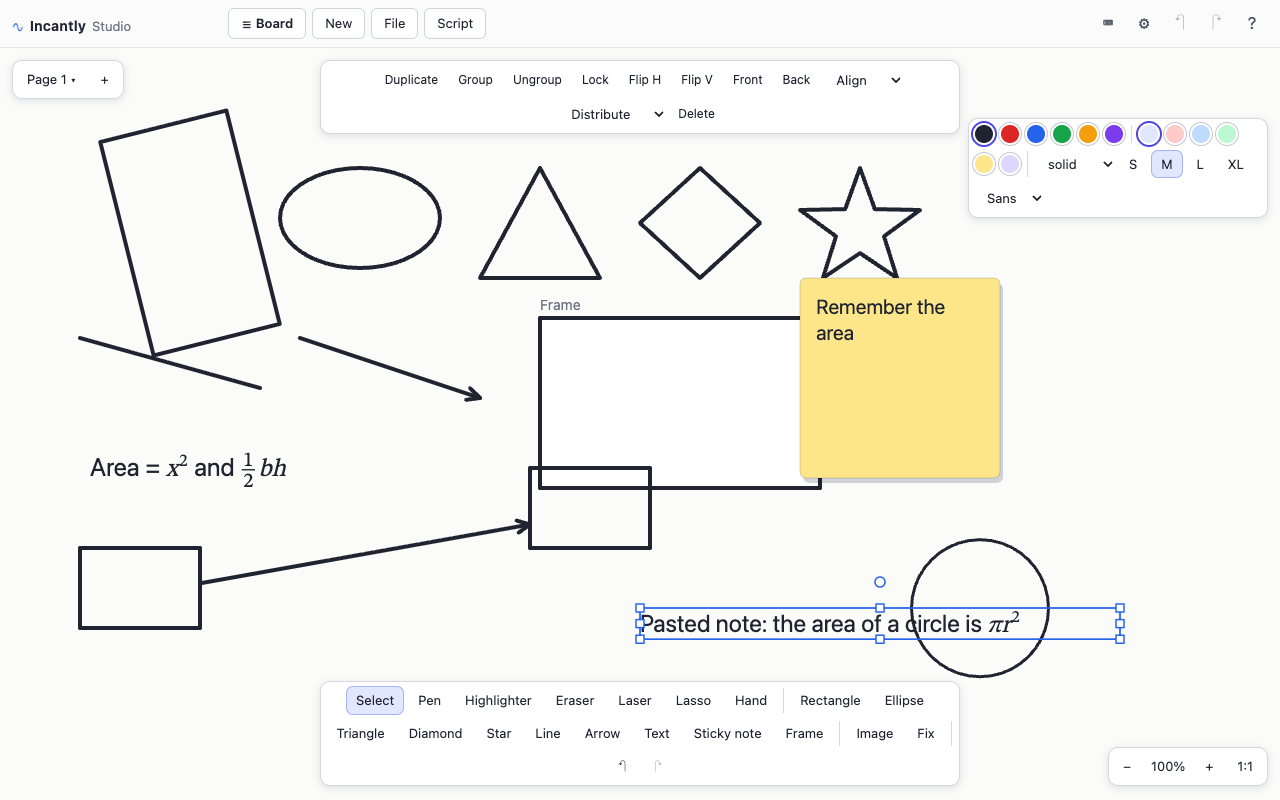
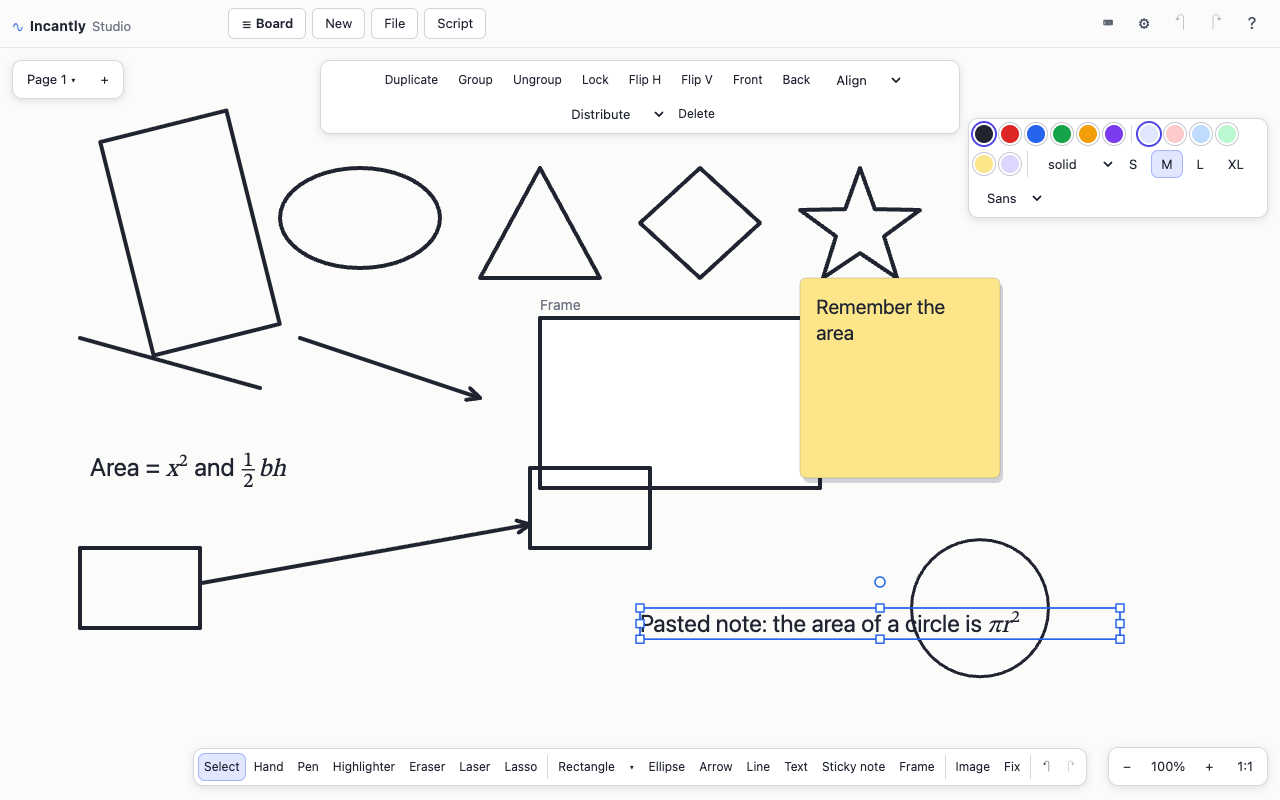
fix(board): More shapes menu above the toolbar, toolbar clear of the zoom bar; round 3 screenshots retaken

Changed region(s): [[0.1562, 0.8438, 0.7812, 1.0]]

diff --git a/packages/board/src/web/board-view.ts b/packages/board/src/web/board-view.ts
@@ -155,10 +155,10 @@ const CSS = `
 .ib-bar button,.ib-bar select{font:inherit;border:1px solid transparent;border-radius:7px;background:transparent;padding:5px 9px;cursor:pointer;color:inherit}
 .ib-bar button:hover{background:#eef0f4}.ib-bar button[aria-pressed=true]{background:#e0e7ff;border-color:#a5b4fc}
 .ib-bar button:disabled{opacity:.4;cursor:default}
-.ib-tools{left:0;right:0;margin:0 auto;bottom:14px;width:max-content;max-width:94%;flex-wrap:nowrap;overflow-x:auto;overscroll-behavior-x:contain;scrollbar-width:thin}
-.ib-tools button{flex:none;white-space:nowrap;padding:5px 7px;font-size:12px}
+.ib-tools{left:0;right:0;margin:0 auto;bottom:14px;width:max-content;max-width:calc(100% - 340px);gap:2px;flex-wrap:nowrap;overflow-x:auto;overscroll-behavior-x:contain;scrollbar-width:thin}
+.ib-tools button{flex:none;white-space:nowrap;padding:5px 5px;font-size:12px}
 .ib-tools .ib-sep{flex:none}
-.ib-more{left:auto;top:auto;bottom:62px;min-width:120px}
+.ib-list.ib-more{left:0;top:auto;bottom:62px;min-width:120px}
 .ib-style{right:12px;top:70px;flex-wrap:wrap;max-width:300px;justify-content:flex-start}
 .ib-style[hidden],.ib-list[hidden]{display:none}
 .ib-sep{width:1px;align-self:stretch;background:#d5d7dd;margin:2px 2px}
